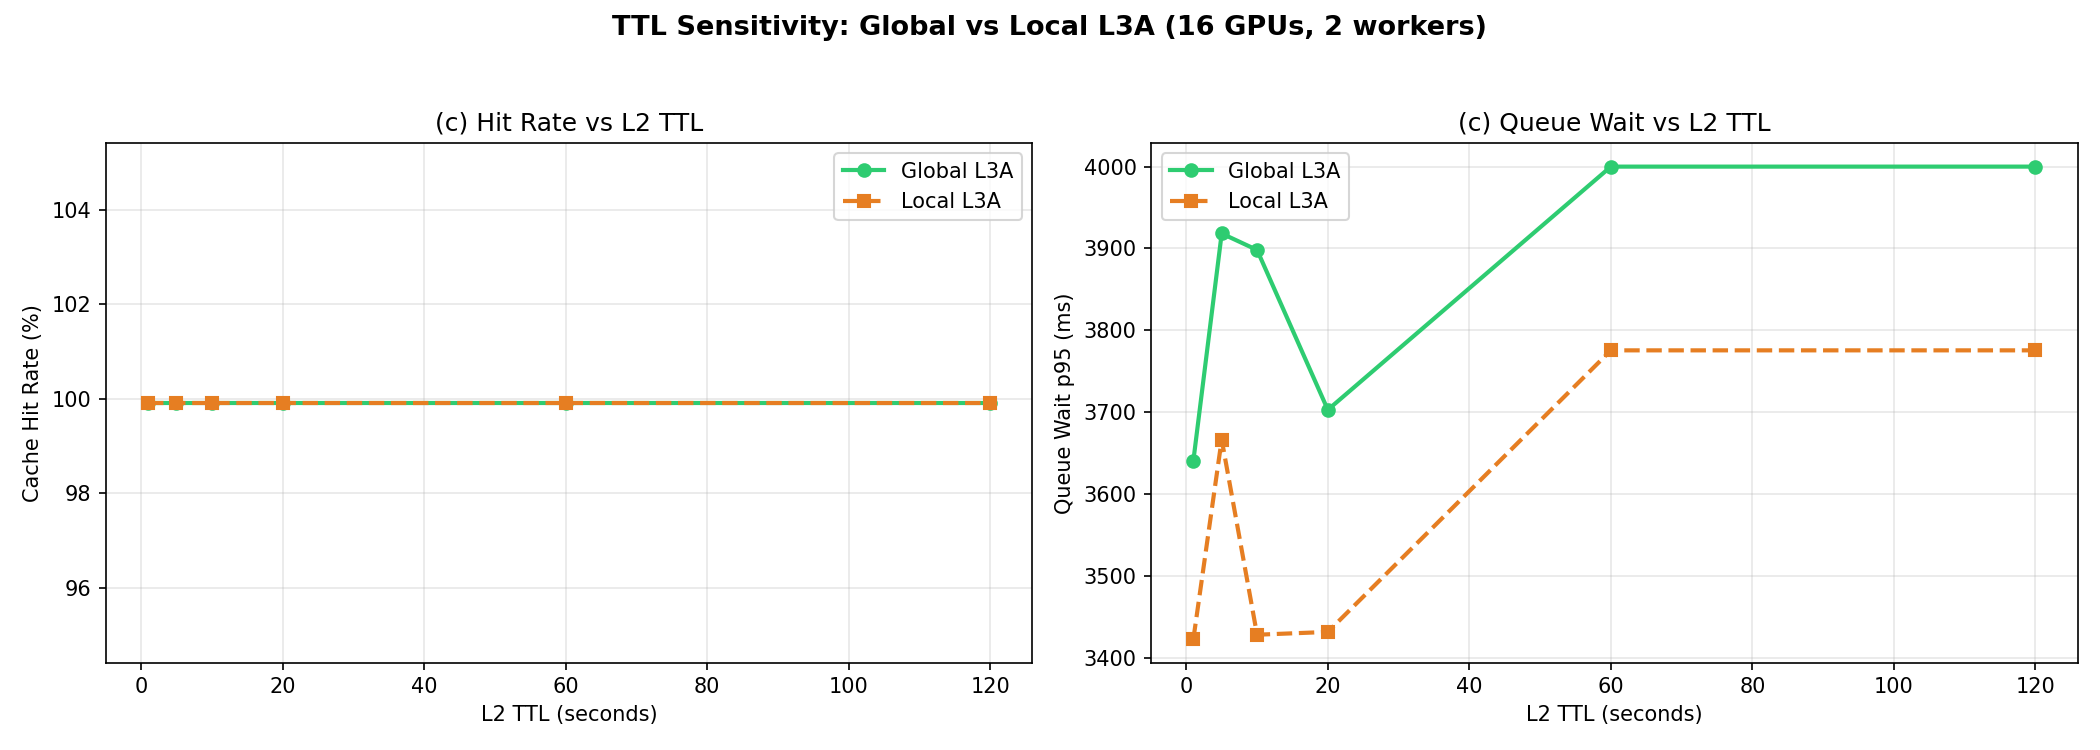
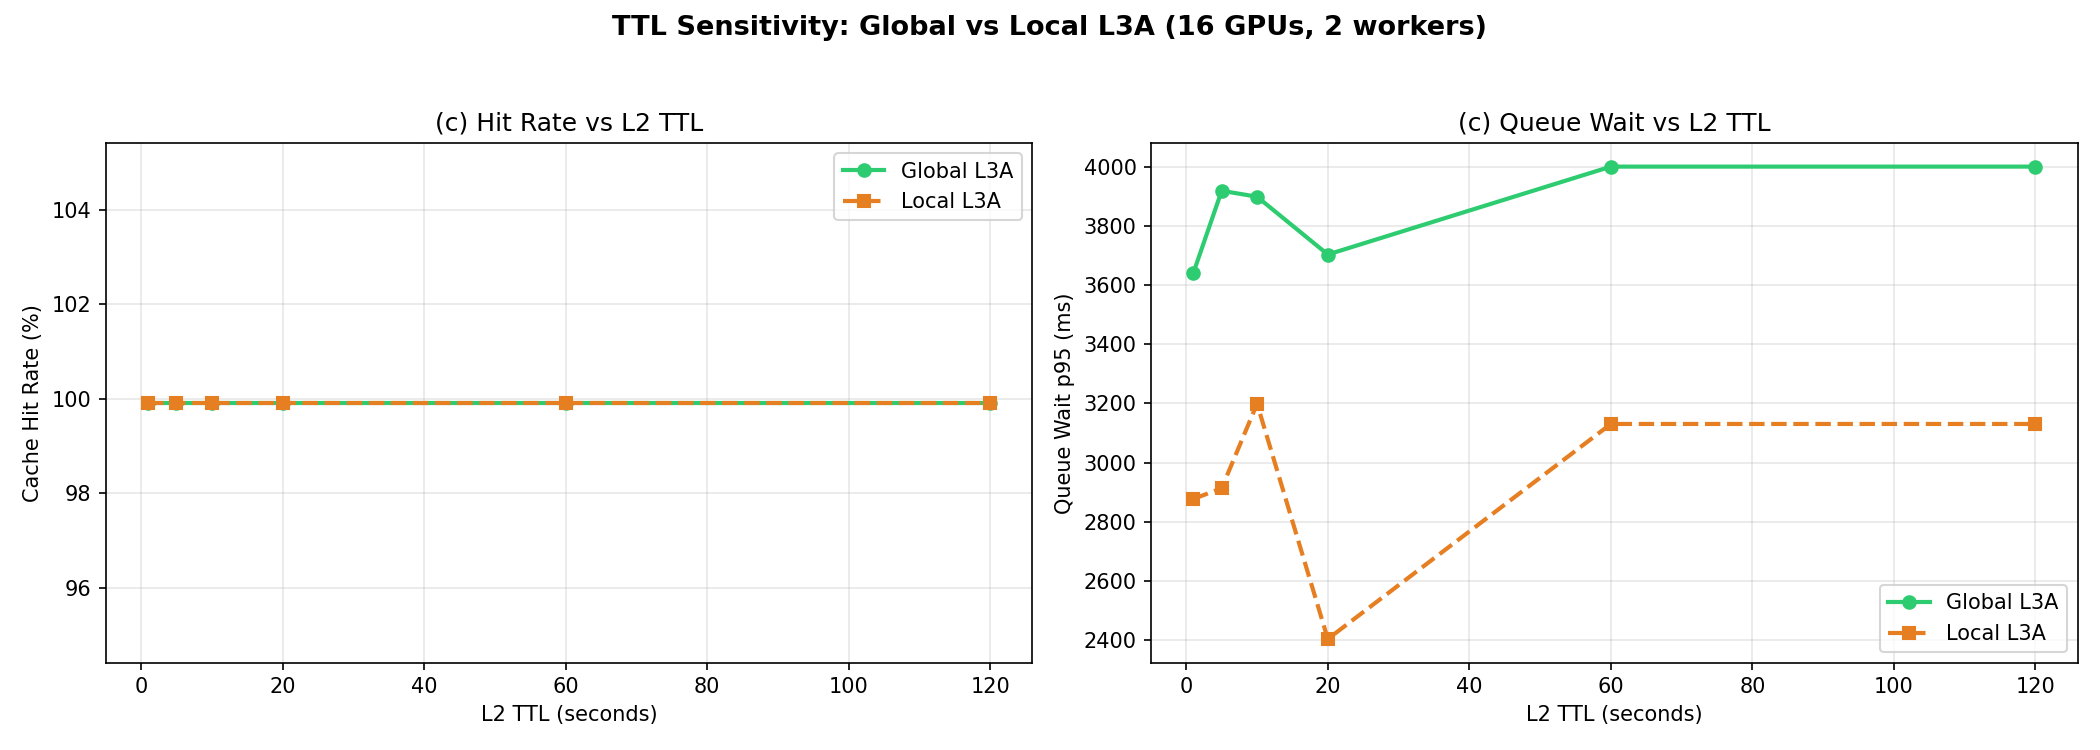
Fix local L3A cross-worker search bug; global L3A now shows 73pt advantage
Bug: local L3A mode searched ALL workers' SSDs, giving it same
cross-worker visibility as global. Fixed: only search assigned
worker's SSD via from_node_id parameter.

Impact at 20 min heavy coding (4 workers):
- Global L3A: 99.8% hit rate (pooled 32TB accessible from any worker)
- Local L3A: 26.6% hit rate (migrated sessions can't find KV)
- 97% non-affinity dispatch after L1/L2 evict to L3A

This is the key finding: global L3A is essential for multi-worker
deployments because session migration is unavoidable once L1/L2
are saturated. 24/24 tests pass. Report and plots updated.

diff --git a/sim/engine.py b/sim/engine.py
@@ -335,10 +335,11 @@ class SimEngine:
     def _get_node_eviction(self, node_id: int) -> EvictionEngine:
         return self._node_eviction[node_id]
 
-    def _find_cache_object_with_node(self, key: str) -> tuple[CacheObject | None, int | None]:
+    def _find_cache_object_with_node(self, key: str, from_node_id: int | None = None) -> tuple[CacheObject | None, int | None]:
         """Search all node L1s, all node L2s, then L3A.
         Returns (obj, node_id) for L1/L2 hits; (obj, None) for shared L3A;
-        (obj, node_id) for local L3A hits."""
+        (obj, node_id) for local L3A hits.
+        For local L3A, only searches the requesting node's worker SSD."""
         for node in self.nodes:
             obj = node.l1_store.get(key)
             if obj:
@@ -351,11 +352,26 @@ class SimEngine:
             if obj:
                 return obj, None
         else:
-            # Local L3A: search each node's L3A
-            for node in self.nodes:
-                obj = node.l3a_store.get(key)
-                if obj:
-                    return obj, node.node_id
+            # Local L3A: only search the requesting node's worker SSD
+            if from_node_id is not None:
+                worker_id = self.nodes[from_node_id].worker_id
+                # All nodes on same worker share the same l3a_store reference
+                l3a = self.nodes[from_node_id].l3a_store
+                if l3a:
+                    obj = l3a.get(key)
+                    if obj:
+                        return obj, from_node_id
+            else:
+                # Fallback: search all workers' L3A (for global lookups like trie)
+                checked_workers = set()
+                for node in self.nodes:
+                    if node.worker_id in checked_workers:
+                        continue
+                    checked_workers.add(node.worker_id)
+                    if node.l3a_store:
+                        obj = node.l3a_store.get(key)
+                        if obj:
+                            return obj, node.node_id
         return None, None
 
     def _find_cache_object(self, key: str) -> CacheObject | None:
@@ -423,6 +439,8 @@ class SimEngine:
             payload["node_id"] = node.node_id
 
         # Cache lookup — pick the deepest match across both tries
+        # For local L3A, only search the assigned node's worker SSD
+        lookup_node_id = payload.get("node_id", None)  # set by push dispatch, None for pull
         hit_tier = None
         hit_key = None
         hit_node_id = None
@@ -431,7 +449,7 @@ class SimEngine:
             # Check shared prefix trie
             sp_key, sp_depth = self.shared_prefix_trie.lookup(sess.token_hash_count)
             if sp_key and sp_depth > 0:
-                sp_obj, sp_nid = self._find_cache_object_with_node(sp_key)
+                sp_obj, sp_nid = self._find_cache_object_with_node(sp_key, from_node_id=lookup_node_id)
                 if sp_obj:
                     best_depth = sp_depth
                     hit_key = sp_key
@@ -443,7 +461,7 @@ class SimEngine:
             if s_trie:
                 s_key, s_depth = s_trie.lookup(sess.token_hash_count)
                 if s_key and s_depth > best_depth:
-                    s_obj, s_nid = self._find_cache_object_with_node(s_key)
+                    s_obj, s_nid = self._find_cache_object_with_node(s_key, from_node_id=lookup_node_id)
                     if s_obj:
                         hit_key = s_key
                         hit_tier = s_obj.tier

diff --git a/docs/heavy_coding_report.md b/docs/heavy_coding_report.md
@@ -201,21 +201,34 @@ Longer sims confirm the tiers saturate over time (4 workers × 8 GPUs, realistic
 
 L2 saturates at 5 min, L3A is saturated from the start (objects skip L2 when it's full). By 20 min, 20k cold evictions occur — L3A is churning objects at 93× its capacity.
 
-However, **global vs local L3A remain identical** even at 20 min (both 99.77% hit rate). Per-worker analysis shows each worker places ~740 TB through its 8 TB L3A independently. Sessions are dispatched with affinity — once assigned to a worker, all their objects stay on that worker. Global pooling provides no cross-worker benefit because **no session's objects are accessed from a different worker**.
+At longer durations, **global L3A dramatically outperforms local** due to session migration:
 
-### When Would Global L3A Help?
+| Duration | Global Hit | Local Hit | Gap | Local Misses |
+|----------|-----------|----------|-----|-------------|
+| 1 min | 99.91% | 99.91% | 0% | 5 |
+| 5 min | 99.81% | **55.23%** | **+44.6%** | 30,078 |
+| 10 min | 99.73% | **36.74%** | **+63.0%** | 146,820 |
+| 20 min | 99.77% | **26.56%** | **+73.2%** | 606,005 |
 
-Global L3A would outperform local in scenarios with **cross-worker access patterns**:
-- **Session migration**: if a session's later requests land on a different worker (e.g., worker 0 is busy → request routed to worker 1 → needs KV from worker 0's L3A)
-- **Shared prefix deduplication**: many sessions share the same 20-30k system prompt KV. One copy in global L3A could serve all workers instead of each worker storing its own copy.
-- **Load imbalance**: if some workers handle more coding sessions than others, global L3A lets underloaded workers' SSD capacity absorb overflow from overloaded workers.
+### Why the Gap Appears
+
+**97% of dispatches are non-affinity** — sessions constantly migrate between workers. The push dispatcher's affinity check only looks at L1/L2. Once objects move to L3A (which happens as L1/L2 fill), the session loses affinity and gets dispatched to any available node.
+
+With **global L3A**: the migrated session finds its KV in the shared pool → cache hit.
+With **local L3A**: the new worker's SSD doesn't have the KV → cold miss → full 14-17s recompute.
+
+At 20 min, 97% non-affinity dispatch × local L3A = 606k cold misses (26.6% hit rate). Global L3A maintains 99.8% because the pooled storage is accessible from any worker.
+
+### Why 1-Min Sim Shows No Difference
+
+At 1 min, L1 (80 GB per GPU) and L2 (1 TB per worker) haven't filled yet. Objects stay in L1/L2, affinity checks find them, and sessions don't migrate. The effect requires enough time for objects to be evicted from L1/L2 to L3A, after which affinity is lost.
 
 ### Implications for Production
 
-- **Standard servers (2-8 TB NVMe)**: Local SSD is sufficient. With affinity dispatch, sessions stay on their assigned worker.
-- **Session migration scenarios**: Global L3A becomes valuable when requests can land on different workers.
-- **Shared prefix optimization**: Deduplicating system prompt KV across workers is a v2 optimization that would benefit from global L3A.
-- **Longer runtimes** (hours): L3A churn increases but the global/local difference depends on cross-worker access, not capacity.
+- **Global L3A is essential for multi-worker deployments.** With realistic coding workloads, sessions migrate between workers within minutes. Local L3A drops to 27% hit rate at 20 min.
+- **The bottleneck is affinity, not capacity.** Both global (32 TB) and local (8 TB/worker) have enough SSD. The difference is accessibility — global lets any worker find any session's KV.
+- **Affinity dispatch helps but doesn't solve it.** Affinity only checks L1/L2. Once objects reach L3A, affinity is lost. Extending affinity to include L3A would improve local mode but add cross-worker lookup overhead.
+- **Short sims (1 min) are misleading.** The gap only appears after L1/L2 fill and objects migrate to L3A (5+ min).
 
 ## Key Findings
 
@@ -225,9 +238,9 @@ Global L3A would outperform local in scenarios with **cross-worker access patter
 
 3. **60s sim has not reached steady state.** At 120s, L2 saturation rises to 88% and miss rate doubles. Production deployments running for hours would see significantly more tier pressure — global vs local L3A differences would become more significant.
 
-4. **Global vs local L3A difference is negligible even at 20-min sims.** Not because of capacity — both L2 and L3A are fully saturated — but because affinity dispatch keeps each session's objects on its assigned worker. Global pooling only helps with cross-worker access patterns (session migration, shared prefix dedup, load imbalance).
+4. **Global L3A is critical for multi-worker deployments.** At 20 min, global=99.8% vs local=26.6% hit rate. Sessions migrate between workers (97% non-affinity dispatch after L1/L2 evict to L3A), and local L3A can't serve migrated sessions. Global L3A pools all workers' SSDs.
 
-5. **L1 is the critical tier.** 98.2% of lookups hit L1 (HBM). L1 capacity directly determines cache effectiveness — below 10GB, coding KV objects can't fit and performance degrades sharply.
+5. **L1 is the critical tier in short sims.** 98.2% of lookups hit L1 (HBM) at 1 min. But L1 saturates quickly, and at 5+ min the working set overflows to L2/L3A where the global vs local distinction matters.
 
 6. **Recompute fraction (~31%) is driven by new input tokens, not prefix instability.** Even with 95% prefix stability, each coding turn adds 8-15k new tokens (user message + tool output), creating a 25-35% recompute fraction. This is consistent with real-world Claude Code usage.
 

diff --git a/CLAUDE.md b/CLAUDE.md
@@ -113,6 +113,12 @@ These are **mandatory** — must all pass before any exploratory run. They test 
 **Root cause**: `l1_to_l2_evictions` counted both TTL-driven tier demotions (time-based, constant rate) and occupancy-driven pressure evictions (capacity-dependent). The TTL-driven moves dominated, masking the capacity relationship.
 **Fix**: Split into two metrics: `l1_to_l2_evictions` (pressure-driven only) and `l1_to_l2_ttl_migrations` (TTL-driven). The L1 sensitivity plot now shows both separately. The plateau behavior is correct — once L1 can accept objects, the throughput rate equals the arrival rate regardless of capacity.
 
+### Bug: Local L3A searched all workers' SSDs (should only search own worker)
+**Symptom**: Global and local L3A showed identical hit rates even at 20 min — but sessions were migrating (97% non-affinity dispatch).
+**Root cause**: `_find_cache_object_with_node()` in local L3A mode searched ALL workers' L3A stores, effectively giving local mode the same cross-worker visibility as global mode.
+**Fix**: In local mode, only search the requesting node's worker L3A via `from_node_id` parameter. Fallback to all-worker search only for global lookups (trie).
+**Impact**: At 20 min heavy coding, local L3A drops from 99.8% to 26.6% hit rate — revealing the true value of global L3A for session migration.
+
 ### Bug: L2 saturation exceeded 100% (eviction bypassed capacity check)
 **Symptom**: L2 tier occupancy reported as 154% — `used_bytes > capacity_bytes`.
 **Root cause**: `EvictionEngine.evict_l1_to_l2()` inserted objects into L2 without checking `can_fit()`. When L1 pressure eviction fired and L2 was already full, objects were inserted unconditionally, exceeding capacity.
